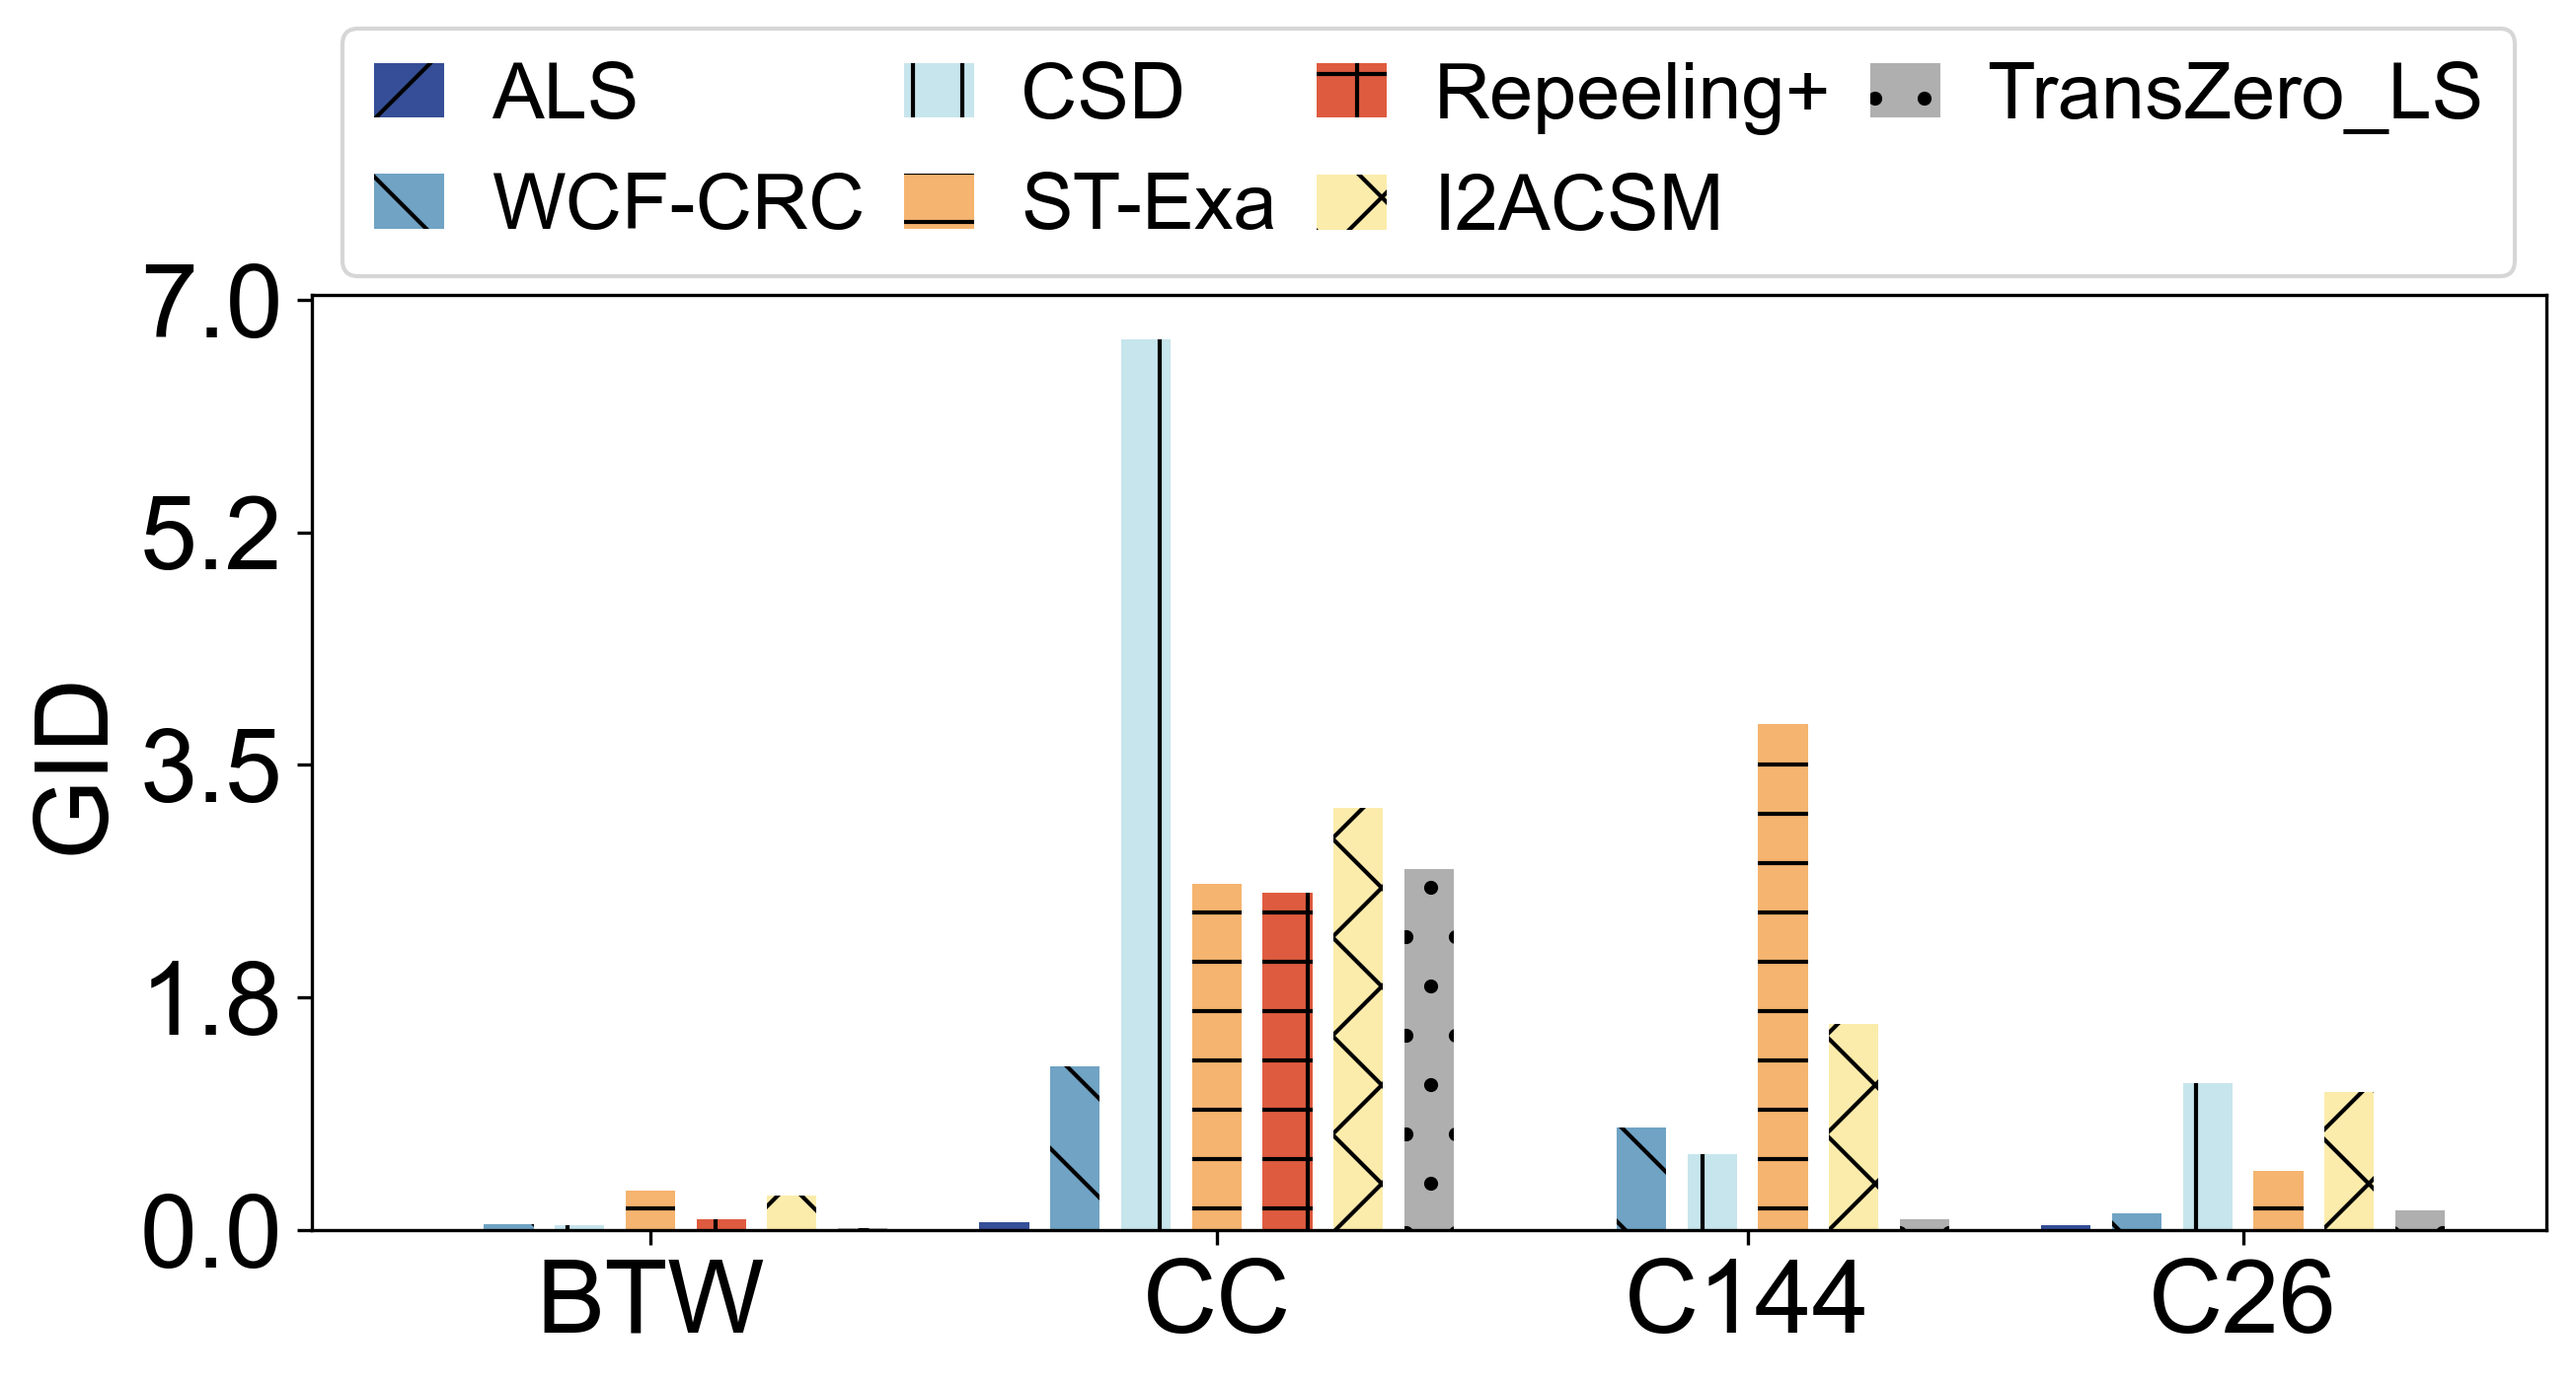
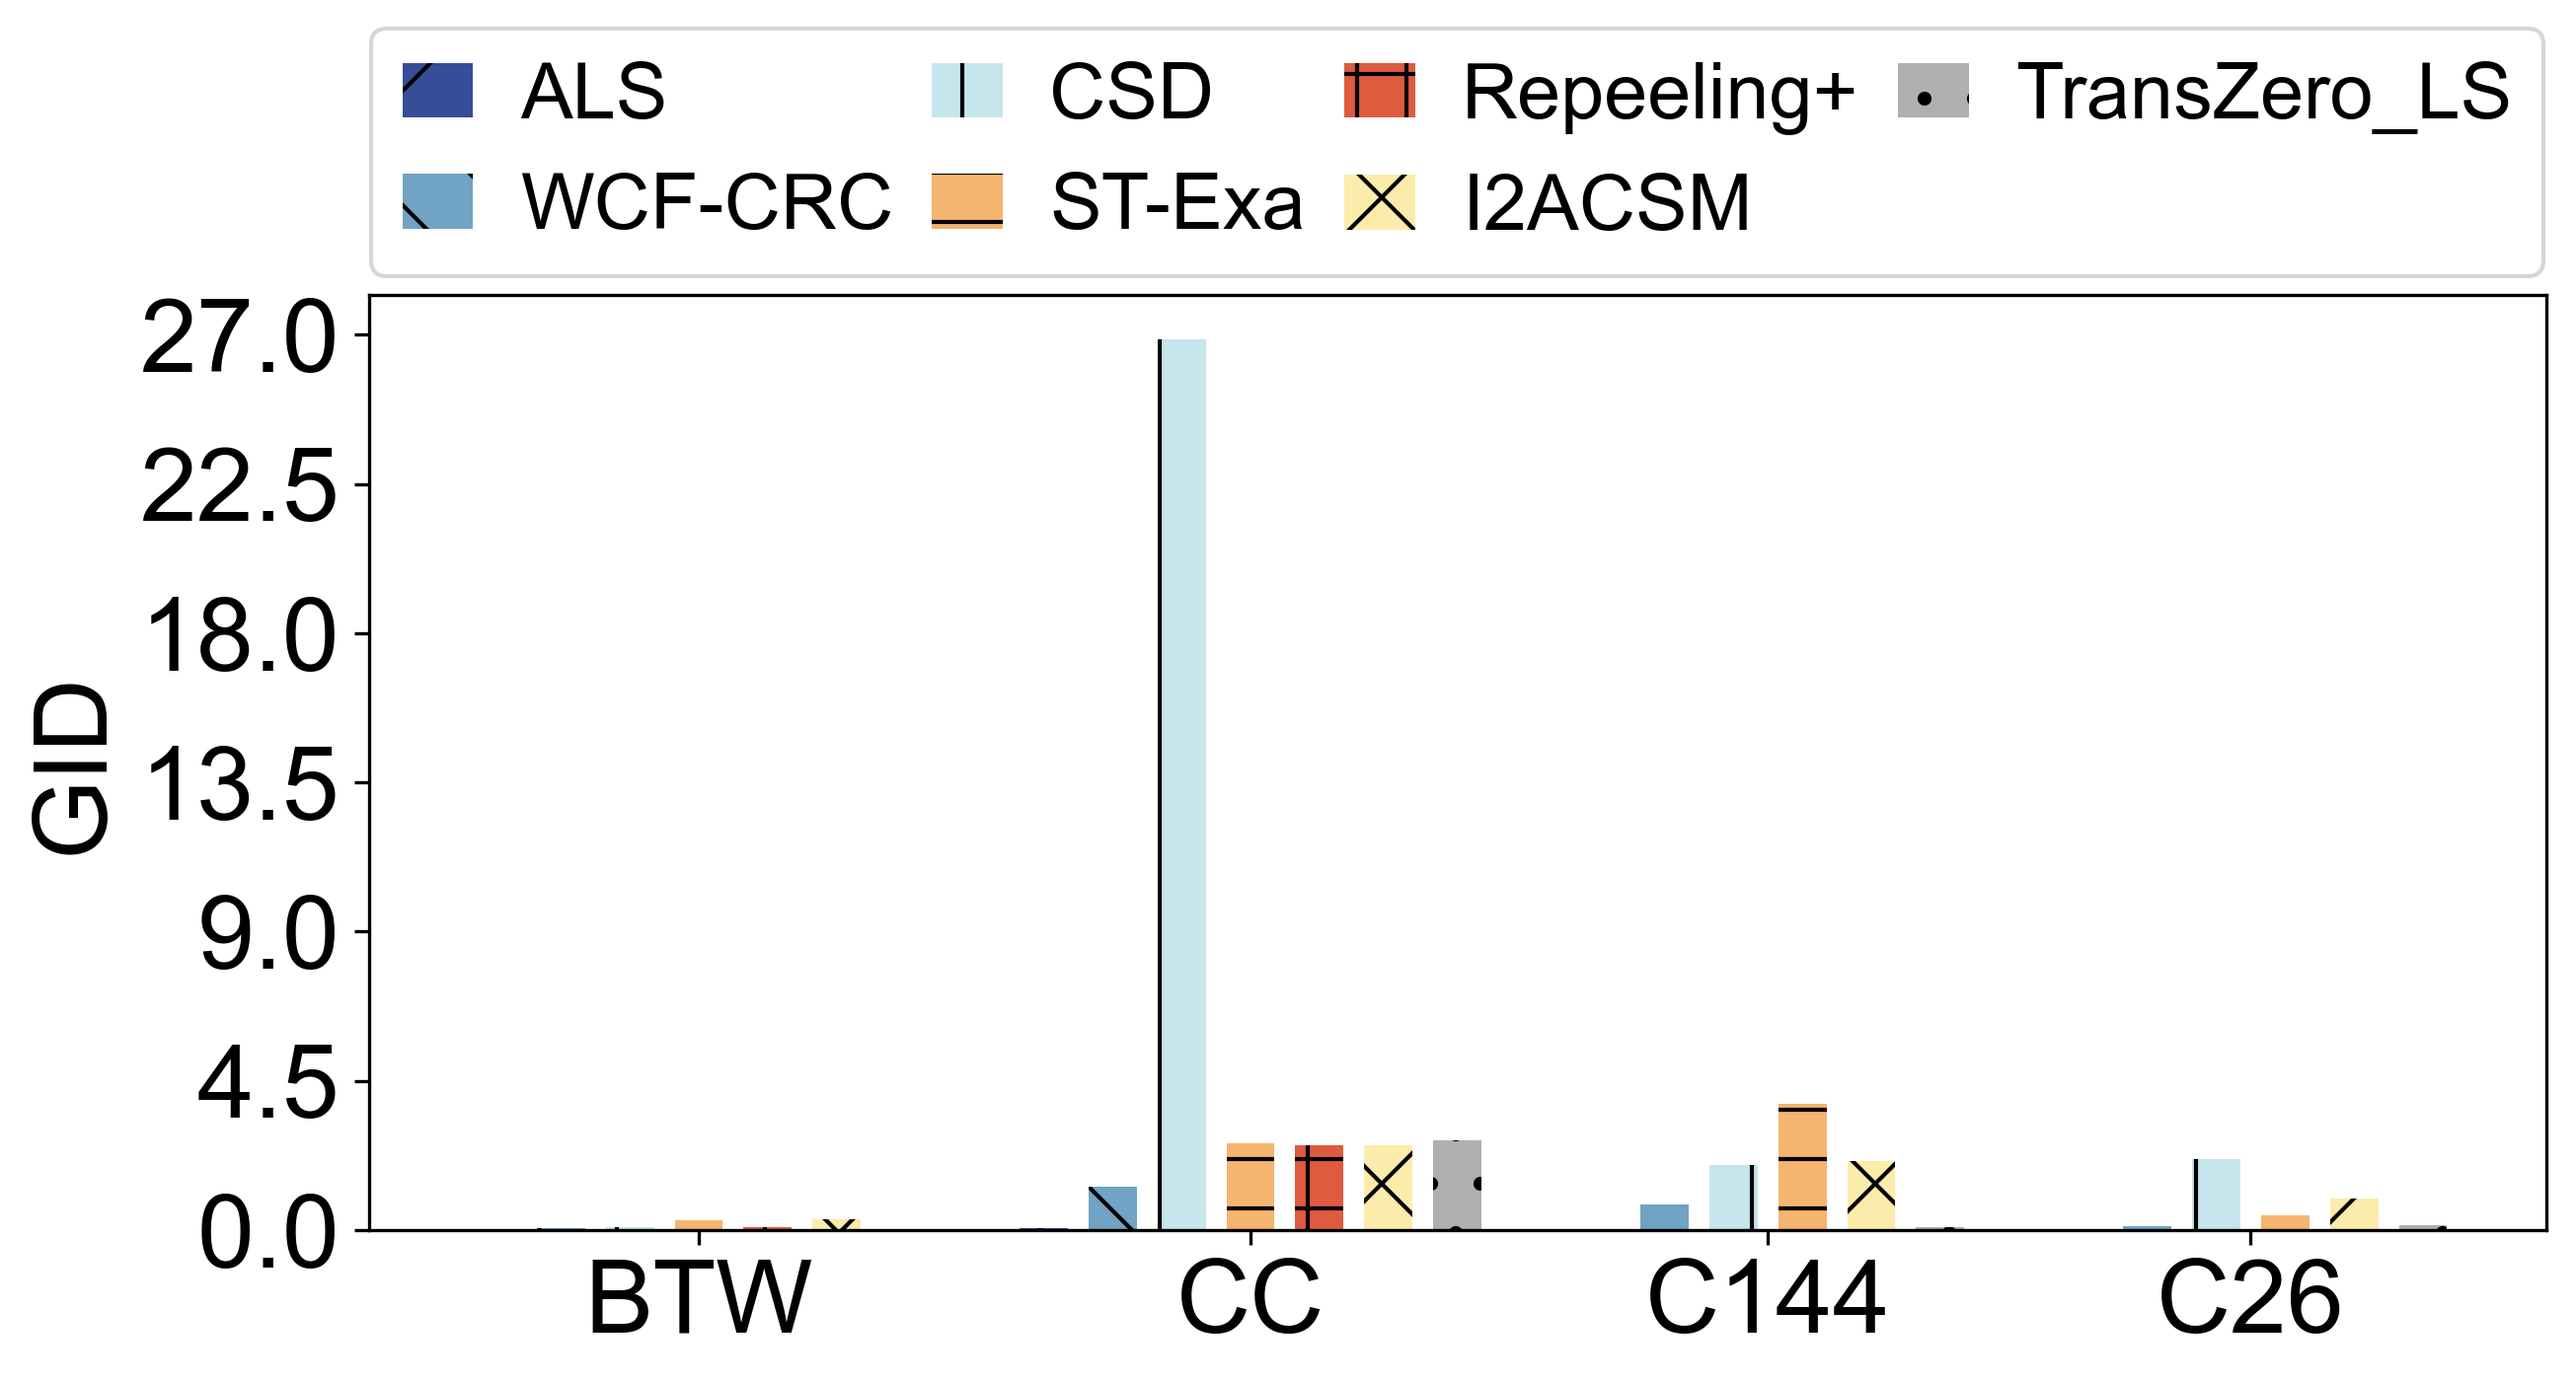
Finalize GIS figures

diff --git a/Visualization/Cohesiveness_GIS.py b/Visualization/Cohesiveness_GIS.py
@@ -137,7 +137,7 @@ if __name__ == "__main__":
             ax.set_yticklabels([f"{tick:.1f}" for tick in y_ticks], fontsize=font_size)
     
         elif measure == "GID":
-            y_ticks = np.linspace(0, 7, num=5)
+            y_ticks = np.linspace(0, 27, num=7)
             ax.set_yticklabels([f"{tick:.1f}" for tick in y_ticks], fontsize=font_size)
 
         ax.set_yticks(y_ticks)
